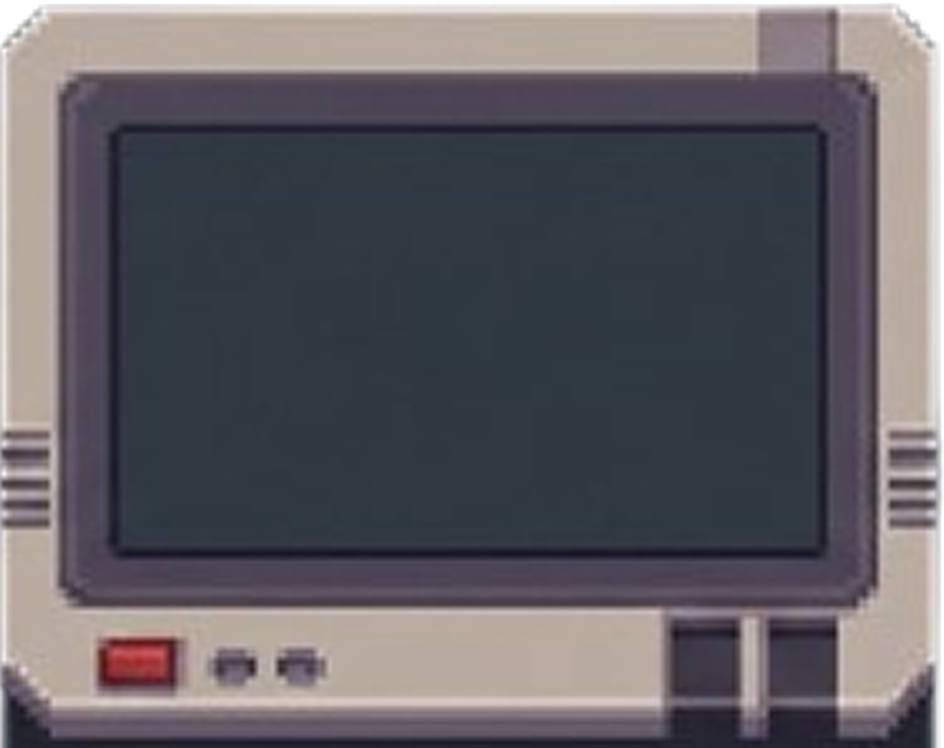
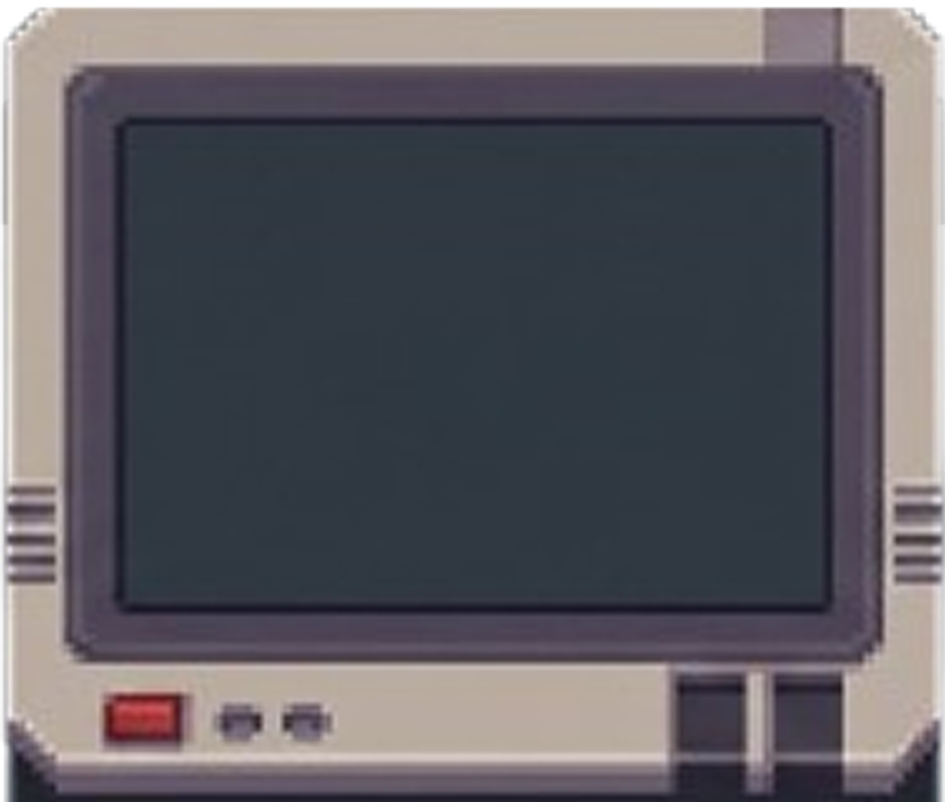
feat: amélioration de l'affichage des cartes projets
- Refonte de la structure des cartes projets
- Ajout de zones d'affichage dédiées pour chaque moniteur
- Ajustement du positionnement des images selon le cadre
- Amélioration du rendu responsive des aperçus
- Uniformisation de l'affichage et des overlays au survol

Changed region(s): [[0.0, 0.0, 1.0, 1.0]]

diff --git a/src/components/projects/ProjectCards.vue b/src/components/projects/ProjectCards.vue
@@ -1,46 +1,52 @@
 <template>
-  <section class="p-3 sticky_section sticky_section--1" id="projects">
+  <section class="p-3 sticky_section sticky_section--1" >
     <div data-aos="fade-down" data-aos-easing="linear" data-aos-duration="500">
 
       <!-- Container des cartes responsive -->
-      <div class="container mx-auto px-4 py-8 md:py-16">
-        <div class="flex flex-wrap justify-center items-stretch gap-6 md:gap-10 lg:gap-14 w-full max-w-7xl mx-auto px-4">
+      <div class="container mx-auto px-4 py-8 md:py-16 ">
+        <div
+        class="w-full  flex flex-wrap justify-center items-stretch gap-6 md:gap-10 lg:gap-14 w-full max-w-7xl mx-auto px-4">
+        <!-- TODO: peut etre allonger le lg:gap-14 a lg:gap - 35 -->
 
           <!-- CARD 1: ADEM -->
-          <article class="group relative w-full sm:w-[328px] max-w-[340px] bg-[#121137]/60 border-2 border-[#121137] rounded-3xl p-4 shadow-[3px_5px_15px_#121137] transition-all duration-300 hover:scale-105 hover:border-[#3b82f6]">
+          <article
+            class="group relative w-full sm:w-[328px] max-w-[340px] bg-[#1E293B]/40 border-2 border-[#121137] rounded-3xl p-4 shadow-[3px_5px_15px_#121137] transition-all duration-300 hover:scale-105 hover:border-[#FEE4B3]">
             <!-- Cadre écran -->
-            <div class="relative w-full h-[200px] sm:h-[220px] flex items-center justify-center overflow-hidden rounded-xl bg-black/20">
+            <div
+              class="relative w-full h-[200px] sm:h-[220px] flex items-center justify-center overflow-hidden rounded-xl bg-black/20">
               <!-- Fond du moniteur -->
-              <img class="w-full h-full object-contain pointer-events-none select-none" src="@/assets/img/ecran1.png" alt="Moniteur pixel">
-              
+              <img class="w-full h-full object-contain pointer-events-none select-none" src="@/assets/img/ecran1.png"
+                alt="Moniteur pixel">
+
               <!-- Contenu interne de l'écran (image ajustée) -->
-              <div class="absolute inset-x-6 top-5 bottom-7 flex items-center justify-center overflow-hidden p-2">
-                <img class="max-w-full max-h-full object-contain" src="@/assets/icons/ademBlanc.png" alt="Rapport d'activité ADEM">
-                
+              <div class="absolute inset-x-6 top-5 bottom-5 flex items-center justify-center overflow-hidden p-2"> 
+                <img class="max-w-full max-h-full object-contain" src="@/assets/img/rapportAdem.png"
+                  alt="Rapport d'activité ADEM">
+
                 <!-- Overlay au survol avec bouton -->
-                <div class="absolute inset-0 bg-black/70 opacity-0 group-hover:opacity-100 transition-opacity duration-300 flex items-center justify-center">
-                  <a href="https://adem2023.lu/" target="_blank" class="px-4 py-2 bg-blue-600 text-white rounded-lg text-sm font-semibold hover:bg-blue-500 transition-colors shadow-lg">
+                <div
+                  class="absolute inset-0 bg-black/70 opacity-0 group-hover:opacity-100 transition-opacity duration-300 flex items-center justify-center">
+                  <a href="https://adem2023.lu/" target="_blank" class="px-4 py-2 bg-[#FEE4B3] text-black rounded-lg text-sm font-semibold hover:bg-[#D7F3F5] transition-colors shadow-lg">
                     Voir le site
                   </a>
                 </div>
               </div>
             </div>
-
             <!-- Infos sous l'écran -->
             <div class="mt-4 text-left">
-              <h3 class="text-lg sm:text-xl font-bold font-['Kode_Mono'] text-[#fcd34d] mb-1">
+              <h3 class="text-lg sm:text-xl font-bold font-['Kode_Mono'] text-[#FEE4B3] mb-1">
                 Rapport d'activité 2023
               </h3>
               <p class="text-xs text-gray-300 line-clamp-2 mb-4">
-                Projet de stage réalisé pour le Ministère de l'Emploi (ADEM).
+                Projet de stage réalisé pour le Ministère de l'Emploi du Luxemboourg (ADEM).
               </p>
 
               <!-- Logos Stack -->
               <div class="flex flex-wrap items-center gap-2">
-                <img class="h-5 sm:h-6 object-contain" src="@/assets/icons/html.png" alt="HTML5">
-                <img class="h-5 sm:h-6 object-contain" src="@/assets/icons/css.png" alt="CSS3">
-                <img class="h-5 sm:h-6 object-contain" src="@/assets/icons/php.png" alt="PHP">
-                <img class="h-5 sm:h-6 object-contain" src="@/assets/icons/mysql.png" alt="MySQL">
+                <img class="h-5 sm:h-9 object-contain" src="@/assets/icons/html.png" alt="HTML5">
+                <img class="h-5 sm:h-9 object-contain" src="@/assets/icons/css.png" alt="CSS3">
+                <img class="h-5 sm:h-9 object-contain" src="@/assets/icons/php.png" alt="PHP">
+                <img class="h-5 sm:h-9 object-contain" src="@/assets/icons/mysql.png" alt="MySQL">
               </div>
             </div>
 
@@ -48,16 +54,19 @@
 
 
           <!-- CARD 2: MNS -->
-          <article class="group relative w-full sm:w-[328px] max-w-[340px] bg-[#121137]/60 border-2 border-[#121137] rounded-3xl p-4 shadow-[3px_5px_15px_#121137] transition-all duration-300 hover:scale-105 hover:border-[#3b82f6]">
-            
+          <article
+            class="group relative w-full sm:w-[328px] max-w-[340px] bg-[#1E293B]/60 border-2 border-[#121137] rounded-3xl p-4 shadow-[3px_5px_15px_#121137] transition-all duration-300 hover:scale-105 hover:border-[#FEE4B3]">
+
             <div class="relative w-full h-[200px] sm:h-[220px] flex items-center justify-center overflow-hidden rounded-xl bg-black/20">
-              <img class="w-full h-full object-contain pointer-events-none select-none" src="@/assets/img/ecran2.png" alt="Moniteur pixel">
-              
-              <div class="absolute inset-x-8 top-5 bottom-8 flex items-center justify-center overflow-hidden p-2">
-                <img class="max-w-full max-h-full object-contain p-5" src="@/assets/icons/mns.webp" alt="Admin MNS">
-                
+              <img class="w-full h-full object-contain pointer-events-none select-none" src="@/assets/img/ecran2.png"
+                alt="Moniteur pixel">
+
+              <div class="absolute inset-x-6 top-4 bottom-9 flex items-center justify-center overflow-hidden p-2">
+                <img class="max-w-full max-h-full p-3 object-cover" src="@/assets/img/admin.jpg" alt="Admin MNS">
+
                 <div class="absolute inset-0 bg-black/70 opacity-0 group-hover:opacity-100 transition-opacity duration-300 flex items-center justify-center">
-                  <a href="https://github.com/Looka57/AdminMnsV1.git" target="_blank" class="px-4 py-2 bg-blue-600 text-white rounded-lg text-sm font-semibold hover:bg-blue-500 transition-colors shadow-lg">
+                  <a href="https://github.com/Looka57/AdminMnsV1.git" target="_blank"
+                    class="px-4 py-2 bg-[#FEE4B3] text-black rounded-lg text-sm font-semibold hover:bg-[#D7F3F5] transition-colors shadow-lg">
                     Voir le repo
                   </a>
                 </div>
@@ -65,17 +74,15 @@
             </div>
 
             <div class="mt-4 text-left">
-              <h3 class="text-lg sm:text-xl font-bold font-['Kode_Mono'] text-[#fcd34d] mb-1">
+              <h3 class="text-lg sm:text-xl font-bold font-['Kode_Mono'] text-[#FEE4B3] mb-1">
                 Admin MNS
               </h3>
-              <p class="text-xs text-gray-300 line-clamp-2 mb-4">
-                Projet fil rouge développé durant la formation CDA à Metz Numeric School.
-              </p>
+              <p class="text-xs text-gray-300 line-clamp-2 mb-4"> Projet fil rouge développé durant la formation CDA à Metz Numeric School.</p>
 
               <div class="flex flex-wrap items-center gap-2">
-                <img class="h-5 sm:h-6 object-contain" src="@/assets/icons/html.png" alt="HTML5">
-                <img class="h-5 sm:h-6 object-contain" src="@/assets/icons/css.png" alt="CSS3">
-                <img class="h-5 sm:h-6 object-contain" src="@/assets/icons/cSharp.png" alt="C#">
+                <img class="h-5 sm:h-9 object-contain" src="@/assets/icons/html.png" alt="HTML5">
+                <img class="h-5 sm:h-9 object-contain" src="@/assets/icons/css.png" alt="CSS3">
+                <img class="h-5 sm:h-9 object-contain" src="@/assets/icons/cSharp.png" alt="C#">
                 <img class="h-5 sm:h-6 object-contain" src="@/assets/icons/dotnet.PNG" alt=".NET">
               </div>
             </div>
@@ -84,16 +91,18 @@
 
 
           <!-- CARD 3: ASP -->
-          <article class="group relative w-full sm:w-[328px] max-w-[340px] bg-[#121137]/60 border-2 border-[#121137] rounded-3xl p-4 shadow-[3px_5px_15px_#121137] transition-all duration-300 hover:scale-105 hover:border-[#3b82f6]">
-            
-            <div class="relative w-full h-[200px] sm:h-[220px] flex items-center justify-center overflow-hidden rounded-xl bg-black/20">
-              <img class="w-full h-full object-contain pointer-events-none select-none" src="@/assets/img/ecran3.png" alt="Moniteur pixel">
-              
-              <div class="absolute inset-x-6 top-5 bottom-7 flex items-center justify-center overflow-hidden p-2">
-                <img class="max-w-full max-h-full object-contain" src="@/assets/icons/asp.png" alt="AS Porcelette Arts Martiaux">
-                
+          <article
+            class="group relative w-full sm:w-[328px] max-w-[340px] bg-[#1E293B]/60 border-2 border-[#121137] rounded-3xl p-4 shadow-[3px_5px_15px_#121137] transition-all duration-300 hover:scale-105 hover:border-[#FEE4B3]">
+
+            <div
+              class="relative w-full h-[200px] sm:h-[220px] flex items-center justify-center overflow-hidden rounded-xl bg-black/20">
+              <img class="w-full h-full object-contain pointer-events-none select-none" src="@/assets/img/ecran3.png"
+                alt="Moniteur pixel">
+
+            <div class="absolute inset-x-6 top-2 bottom-5 flex items-center justify-center overflow-hidden p-2">
+                <img class="max-w-full max-h-full object-contain" src="@/assets/img/aspJudo.png" alt="AS Porcelette Arts Martiaux">
                 <div class="absolute inset-0 bg-black/70 opacity-0 group-hover:opacity-100 transition-opacity duration-300 flex items-center justify-center">
-                  <a href="https://asporcelette-art-martiaux.fr/" target="_blank" class="px-4 py-2 bg-blue-600 text-white rounded-lg text-sm font-semibold hover:bg-blue-500 transition-colors shadow-lg">
+                  <a href="https://asporcelette-art-martiaux.fr/" target="_blank" class="px-4 py-2 bg-[#FEE4B3] text-black rounded-lg text-sm font-semibold hover:bg-[#D7F3F5] transition-colors shadow-lg">
                     Voir le site
                   </a>
                 </div>
@@ -101,7 +110,7 @@
             </div>
 
             <div class="mt-4 text-left">
-              <h3 class="text-lg sm:text-xl font-bold font-['Kode_Mono'] text-[#fcd34d] mb-1">
+              <h3 class="text-lg sm:text-xl font-bold font-['Kode_Mono'] text-[#FEE4B3] mb-1">
                 ASP Arts Martiaux
               </h3>
               <p class="text-xs text-gray-300 line-clamp-2 mb-4">
@@ -109,10 +118,10 @@
               </p>
 
               <div class="flex flex-wrap items-center gap-2">
-                <img class="h-5 sm:h-6 object-contain" src="@/assets/icons/html.png" alt="HTML5">
-                <img class="h-5 sm:h-6 object-contain" src="@/assets/icons/css.png" alt="CSS3">
-                <img class="h-5 sm:h-6 object-contain" src="@/assets/icons/vue.png" alt="Vue.js">
-                <img class="h-5 sm:h-6 object-contain" src="@/assets/icons/cSharp.png" alt="C#">
+                <img class="h-5 sm:h-9 object-contain" src="@/assets/icons/html.png" alt="HTML5">
+                <img class="h-5 sm:h-9 object-contain" src="@/assets/icons/css.png" alt="CSS3">
+                <img class="h-5 sm:h-9 object-contain" src="@/assets/icons/vue.png" alt="Vue.js">
+                <img class="h-5 sm:h-9 object-contain" src="@/assets/icons/cSharp.png" alt="C#">
                 <img class="h-5 sm:h-6 object-contain" src="@/assets/icons/dotnet.PNG" alt=".NET">
               </div>
             </div>

diff --git a/src/components/projects/Projects.vue b/src/components/projects/Projects.vue
@@ -6,21 +6,18 @@ import ProjectCards from './ProjectCards.vue';
 <template>
   <section class="py-12 sm:py-16 px-4 sm:px-6 w-full">
     <!-- EN-TÊTE DE SECTION -->
-    <div class="flex items-center justify-center gap-3 sm:gap-6 mb-8 sm:mb-12 text-center">
+    <div class="flex items-center justify-center gap-3 sm:gap-6 mb-8 sm:mb-12 text-center ">
       <!-- Trait gauche (Masqué sur très petits écrans) -->
-      <img src="@/assets/icons/trait.png" alt=""
-        class="hidden sm:inline-block h-auto max-w-[60px] md:max-w-[100px] object-contain select-none">
+      <img class="hidden sm:inline-block h-auto max-w-[60px] md:max-w-[100px] object-contain select-none" src="@/assets/icons/trait.png" alt="">
 
-      <h2 class="text-2xl sm:text-3xl md:text-4xl uppercase tracking-wider text-[#D7F3F5] font-semibold">
+      <h2 class="text-2xl sm:text-3xl md:text-4xl uppercase tracking-wider text-[#D7F3F5] font-semibold" id="projects">
         Mes réalisations
       </h2>
 
       <!-- Trait droit (Masqué sur très petits écrans) -->
-      <img src="@/assets/icons/trait1.png" alt=""
-        class="hidden sm:inline-block h-auto max-w-[60px] md:max-w-[100px] object-contain select-none">
+      <img src="@/assets/icons/trait1.png" alt="" class="hidden sm:inline-block h-auto max-w-[60px] md:max-w-[100px] object-contain select-none">
     </div>
-    <div class="projetsCards flex flex-wrap justify-around gap-6 mt-8 w-full ">
-
+    <div class="projetsCards flex flex-wrap justify-around gap-6 mt-8 w-full">
       <ProjectCards />
     </div>
 

diff --git a/src/views/HomeView.vue b/src/views/HomeView.vue
@@ -22,7 +22,7 @@ import Footer from '../components/layout/Footer.vue'
 
         <Projects />
 
-       <Skills />
+       <!-- <Skills /> -->
 
          <!-- <About />
 
